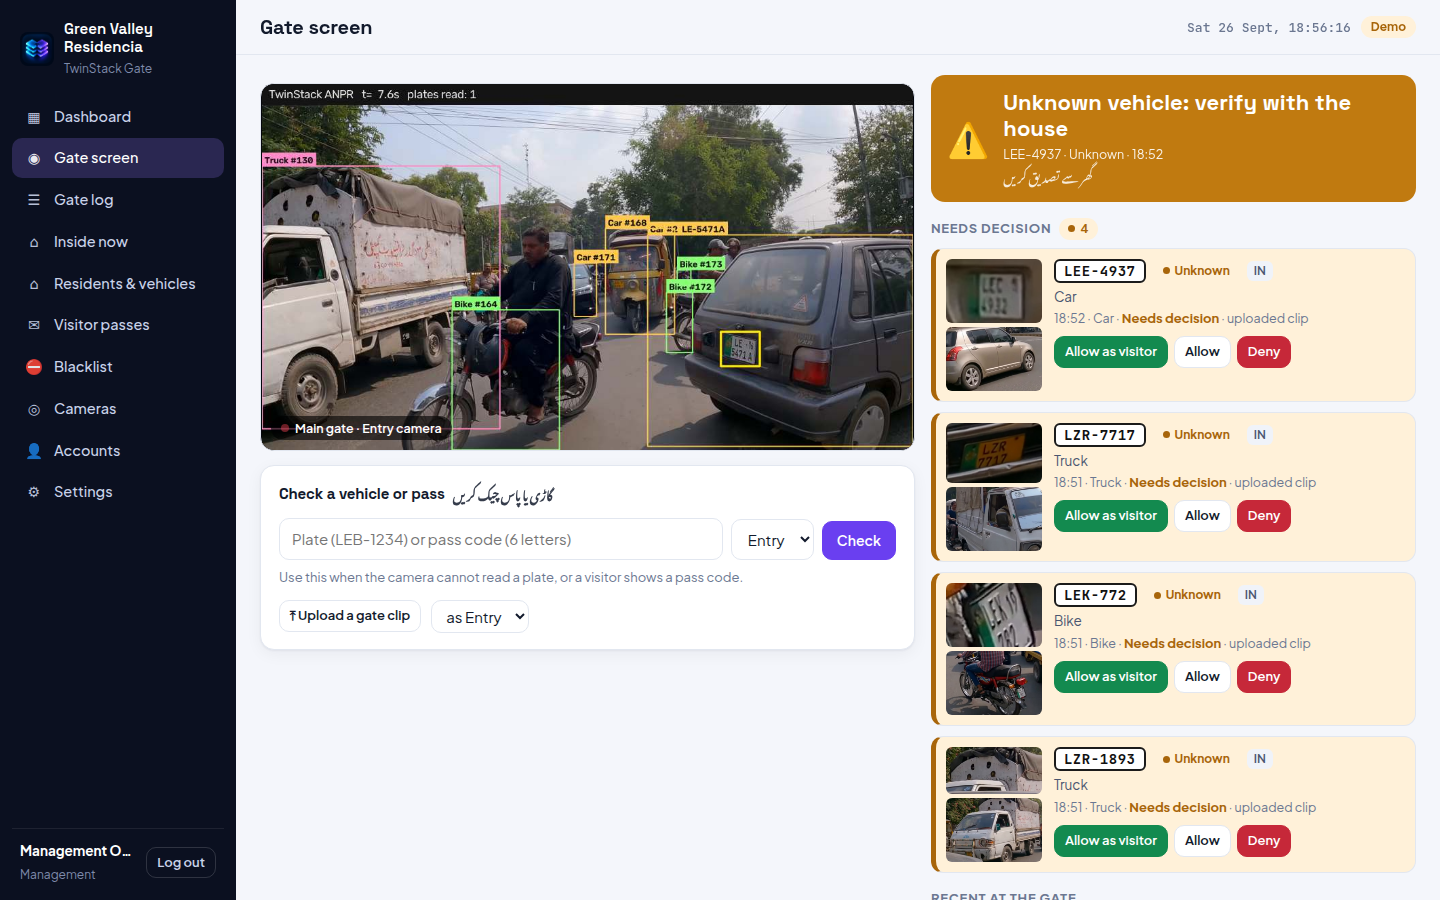
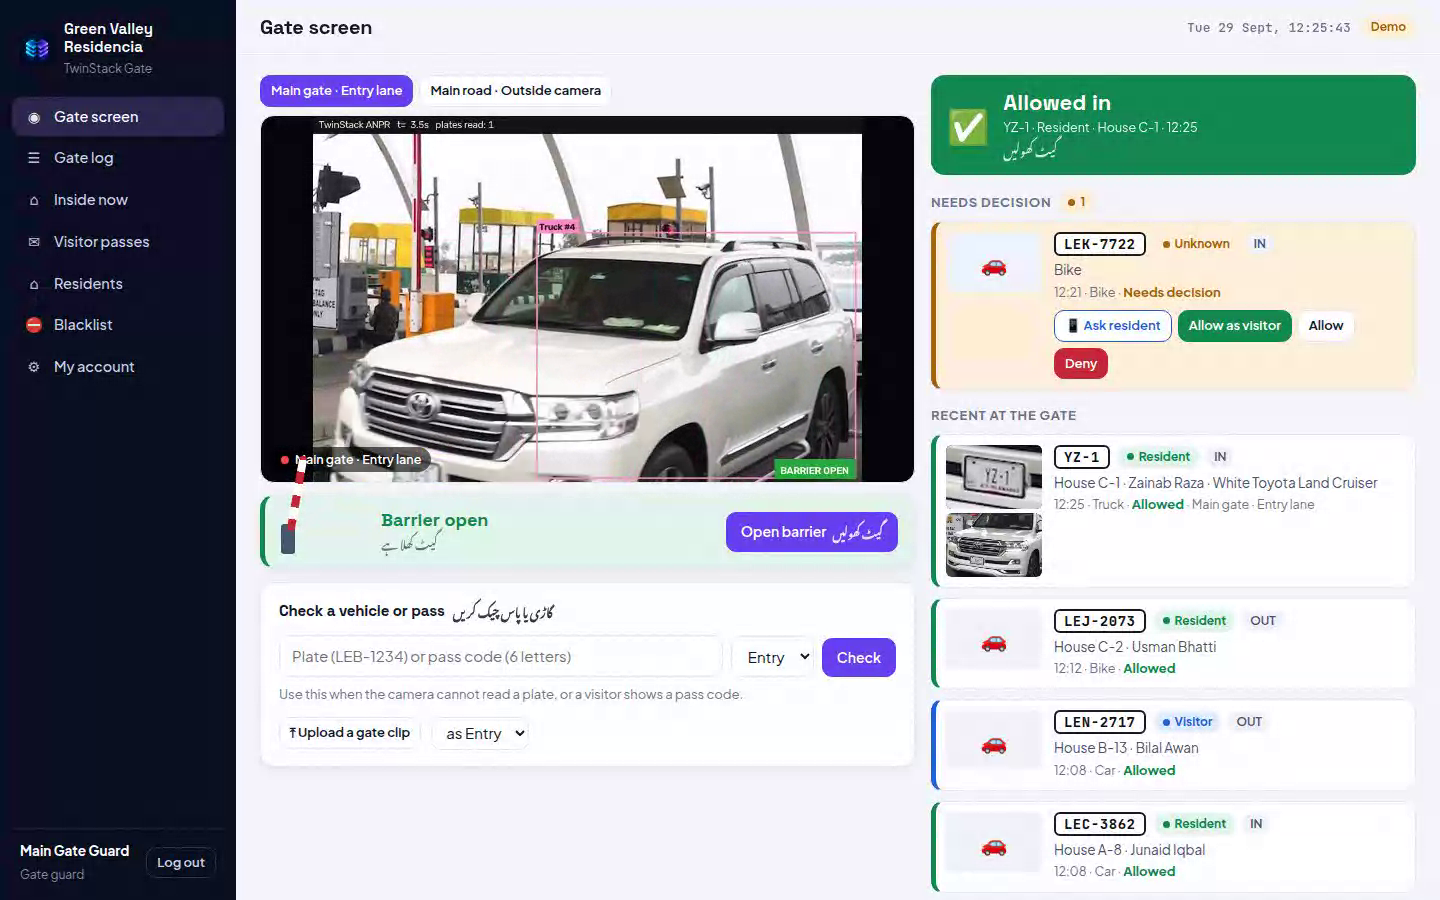
Demo society: gate lane camera (#7)
The demo's main camera is now a barrier lane clip, where cars stop at the
barrier one by one like at a society gate. Two plates in it are registered
residents and one is left unknown for the ask-the-resident flow. The street
clip stays as a second, outside camera without a barrier.

diff --git a/app/society_demo.py b/app/society_demo.py
@@ -34,6 +34,9 @@ CLIP = {
     "LEQ-7234B": ("resident", "C", "3", "Yamaha YBR", "Bike", "Blue"),
     "LEN-8209": ("resident", "A", "18", "Honda CD 70", "Bike", "Red"),
     "LES-5033": ("service", None, None, "Water tanker (Al-Madina Water)", "Truck", "Blue"),
+    # gate lane clip (a barrier lane, like a society gate): ALZ-002 is left unknown for the ask-the-resident flow
+    "AAA-251": ("resident", "B", "9", "Changan Alsvin", "Car", "White"),
+    "YZ-1": ("resident", "C", "1", "Toyota Land Cruiser", "Car", "White"),
 }
 CLIP_VISITOR = "AZF-52"
 CLIP_BLACKLIST = ("LEB-3789", "Stolen vehicle, FIR no. 1142/26 Model Town")
@@ -130,8 +133,9 @@ def seed(c):
         add_pass(rng.choice(hid_list), f"{rng.choice(FIRST)} {rng.choice(LAST)}", rand_plate(rng) if rng.random() < 0.6 else None,
                  vf, vf + timedelta(days=rng.choice([0, 0, 1])), rng.choice(PURPOSES))
 
-    cam = c.execute("""insert into soc_cameras (name, gate, source, demo, barrier) values ('Main gate · Entry camera', 'entry', 'demo:gate-demo.mp4', true, 'sim')
+    cam = c.execute("""insert into soc_cameras (name, gate, source, demo, barrier) values ('Main gate · Entry lane', 'entry', 'demo:gate-lane.mp4', true, 'sim')
                        returning id""").fetchone()["id"]
+    c.execute("""insert into soc_cameras (name, gate, source, demo, barrier) values ('Main road · Outside camera', 'entry', 'demo:gate-demo.mp4', true, '')""")
 
     # two weeks of history (no photos; the camera adds real ones)
     events = []

diff --git a/app/society.py b/app/society.py
@@ -1492,7 +1492,7 @@ def startup():
             else:
                 first_run(c)
         if DEMO:  # demo cameras created before the barrier feature
-            c.execute("update soc_cameras set barrier='sim' where demo and barrier=''")
+            c.execute("update soc_cameras set barrier='sim' where demo and barrier='' and name like 'Main gate%'")
     cameras.sync()
 
     def housekeeping():
